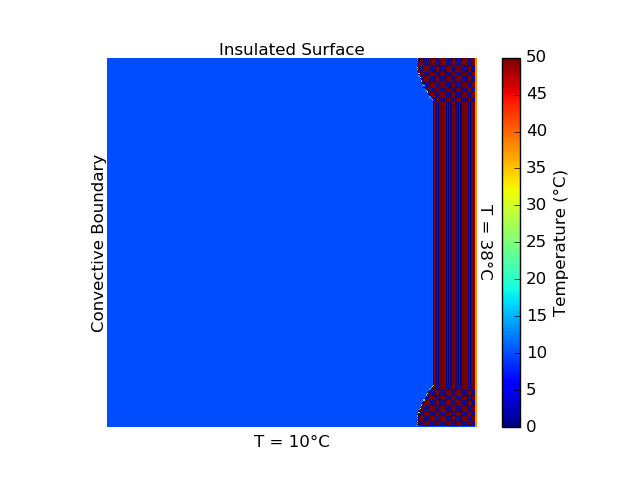
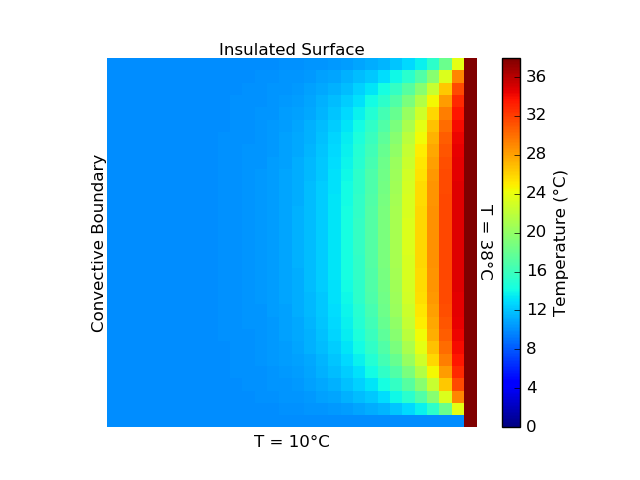
Closer, but no convective boundary

diff --git a/Problem-Set-5/PSet-5.py b/Problem-Set-5/PSet-5.py
@@ -17,8 +17,8 @@ h = 28      # W/(m^2*C)  Convective Heat Transfer Coefficient
 k = 5.2     # W/(m*C)    Thermal Conductivity
 alpha = k / (rho * c)
 
-#dt = k * (delta ^ 2) / (2 * h * delta + 4 * k)  # Characteristic time
-dt = (delta ^ 2) / (4 * alpha)
+dt = k * (delta ^ 2) / (2 * h * delta + 4 * k)  # Characteristic time
+#dt = (delta ^ 2) / (4 * alpha)
 Fo = alpha * dt / (delta ^ 2)   # Fourier Number
 Bi = h * delta / k              # Biot Number
 
@@ -44,13 +44,13 @@ for t in range(num_time_steps):
     
     # Convective Boundary Nodes (Left)
     for n in range(1, height - 1):
+        m = 0
         data[m, n] = Fo * (2 * Bi * (T_inf - data_old[m, n]) + 2 * data_old[m + 1, n] + data_old[m, n + 1] + data_old[m, n - 1] - 4 * data_old[m, n]) + data_old[m, n]
 
     # Insulated Boundary Noes (Top)
     for m in range(1, width - 1):
         data[m, 0] = Fo * (2 * data_old[m, n - 1] + data_old[m - 1, n] + data_old[m + 1, n]) + (1 - 4 * Fo) * data_old[m, n]
 
-    
 
 
 
@@ -96,7 +96,7 @@ plt.ylim(0, height)
 
 cbar = plt.colorbar(heatmap)
 cbar.set_label("Temperature (\N{DEGREE SIGN}C)")
-plt.clim(0, 50)
+plt.clim(0, T_right)
 
 plt.savefig(fileName + "/images/" + fileName + "-" + str(figNum) + ".png")
 plt.show()
